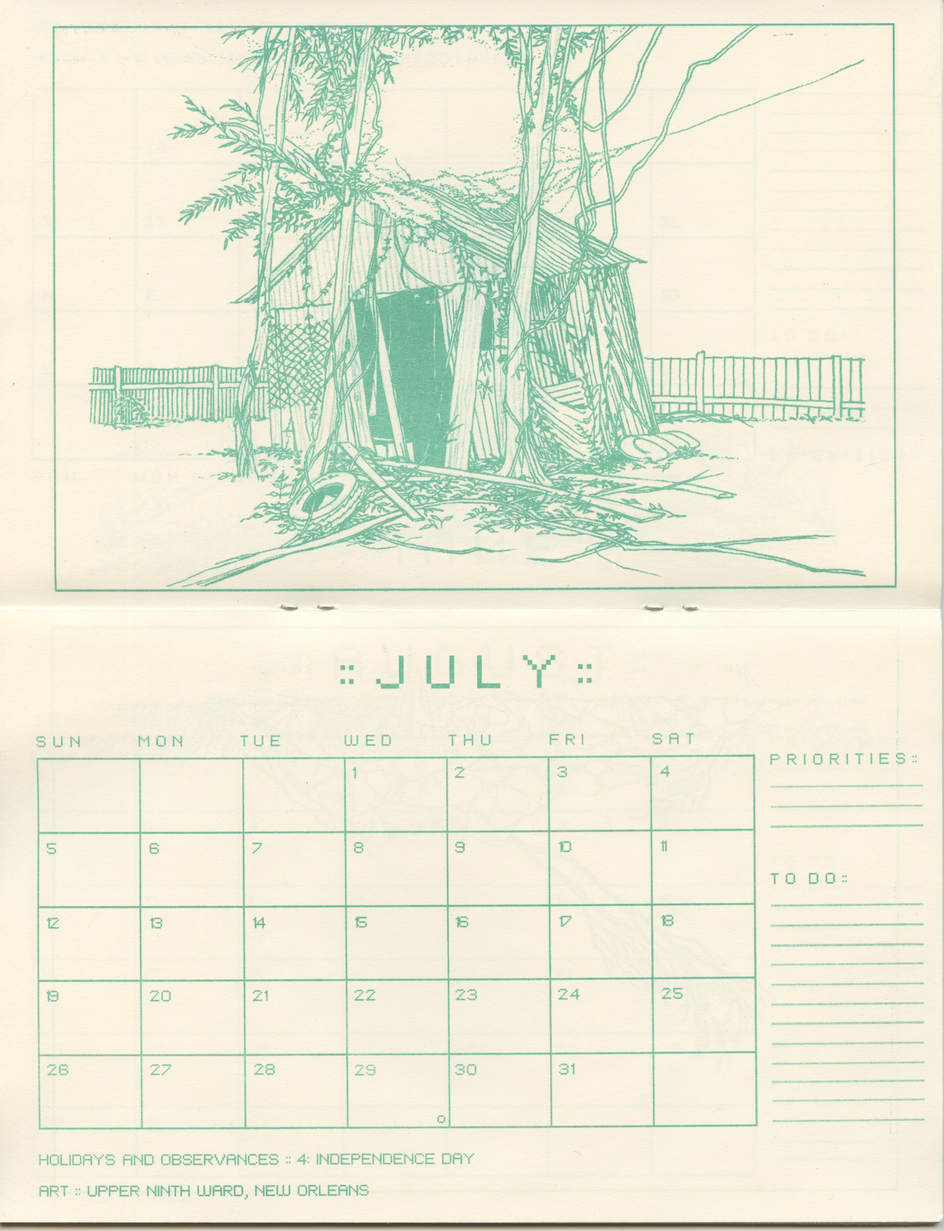
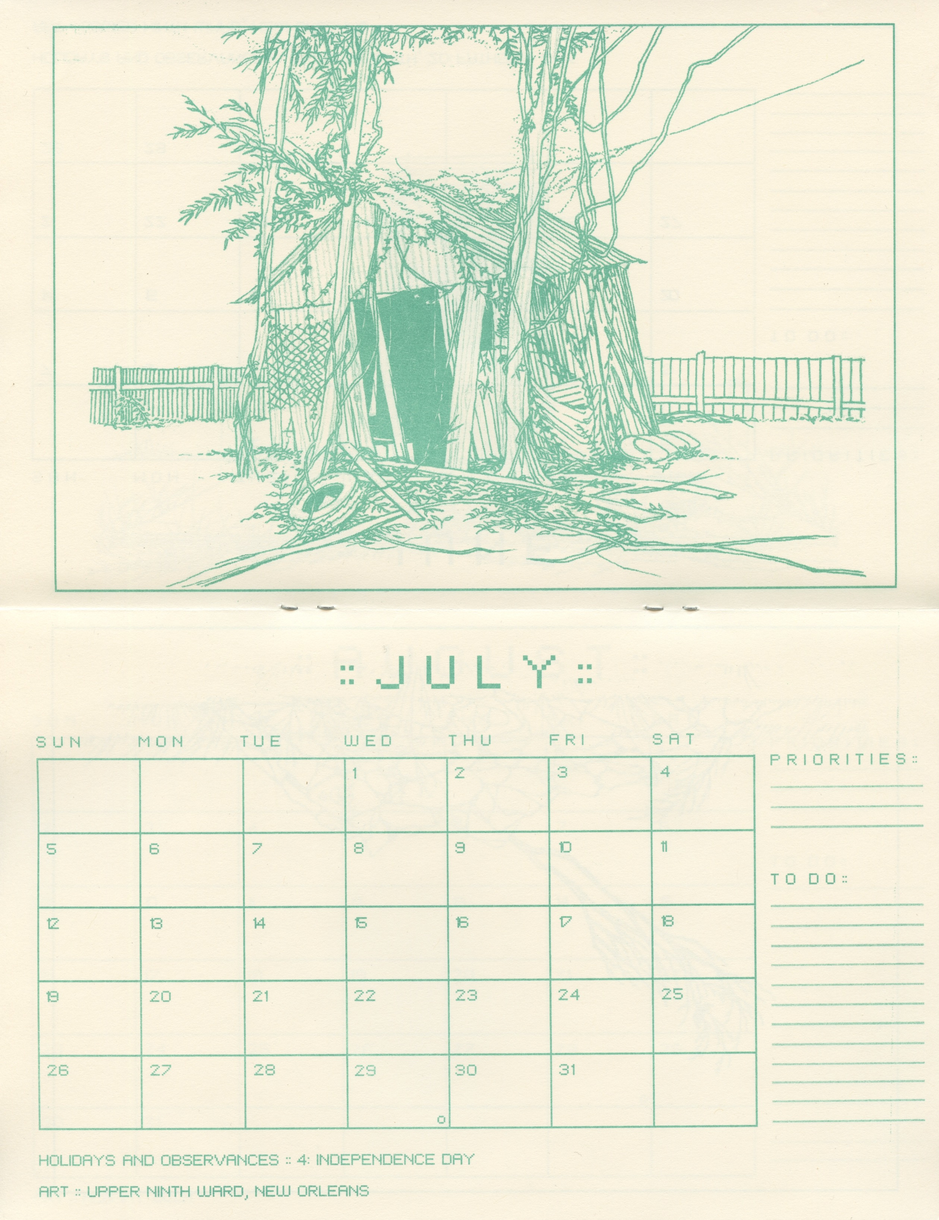
edit img cropping

diff --git a/26cal.html b/26cal.html
@@ -56,22 +56,6 @@
 <p>
 <img 
     src="img/zine/26cal/calendar_scans_apr.jpeg" 
-    width="607" 
-    height="800"
-    class="responsive"
-    style="object-fit: scale-down;"/>
-</p>
-<p>
-<img 
-    src="img/zine/26cal/calendar_scans_june.jpeg" 
-    width="618" 
-    height="800"
-    class="responsive"
-    style="object-fit: scale-down;"/>
-</p>
-<p>
-<img 
-    src="img/zine/26cal/calendar_scan_july.jpeg" 
     width="613" 
     height="800"
     class="responsive"
@@ -79,8 +63,24 @@
 </p>
 <p>
 <img 
+    src="img/zine/26cal/calendar_scans_june.jpeg" 
+    width="615" 
+    height="800"
+    class="responsive"
+    style="object-fit: scale-down;"/>
+</p>
+<p>
+<img 
+    src="img/zine/26cal/calendar_scan_july.jpeg" 
+    width="616" 
+    height="800"
+    class="responsive"
+    style="object-fit: scale-down;"/>
+</p>
+<p>
+<img 
     src="img/zine/26cal/calendar_scans_sept.jpeg" 
-    width="619" 
+    width="609" 
     height="800"
     class="responsive"
     style="object-fit: scale-down;"/>
@@ -88,7 +88,7 @@
 <p>
 <img 
     src="img/zine/26cal/calendar_scans_nov.jpeg" 
-    width="610" 
+    width="615" 
     height="800"
     class="responsive"
     style="object-fit: scale-down;"/>
@@ -96,7 +96,7 @@
 <p>
 <img 
     src="img/zine/26cal/calendar_scans_dec.jpeg" 
-    width="607" 
+    width="616" 
     height="800"
     class="responsive"
     style="object-fit: scale-down;"/>
@@ -104,7 +104,7 @@
 <p>
 <img 
     src="img/zine/26cal/calendar_scans_notes.jpeg" 
-    width="620" 
+    width="617" 
     height="800"
     class="responsive"
     loading= "lazy"
@@ -113,7 +113,7 @@
 <p>
 <img 
     src="img/zine/26cal/calendar_scans_cover.jpeg" 
-    width="614" 
+    width="615" 
     height="800"
     class="responsive"
     loading= "lazy"
